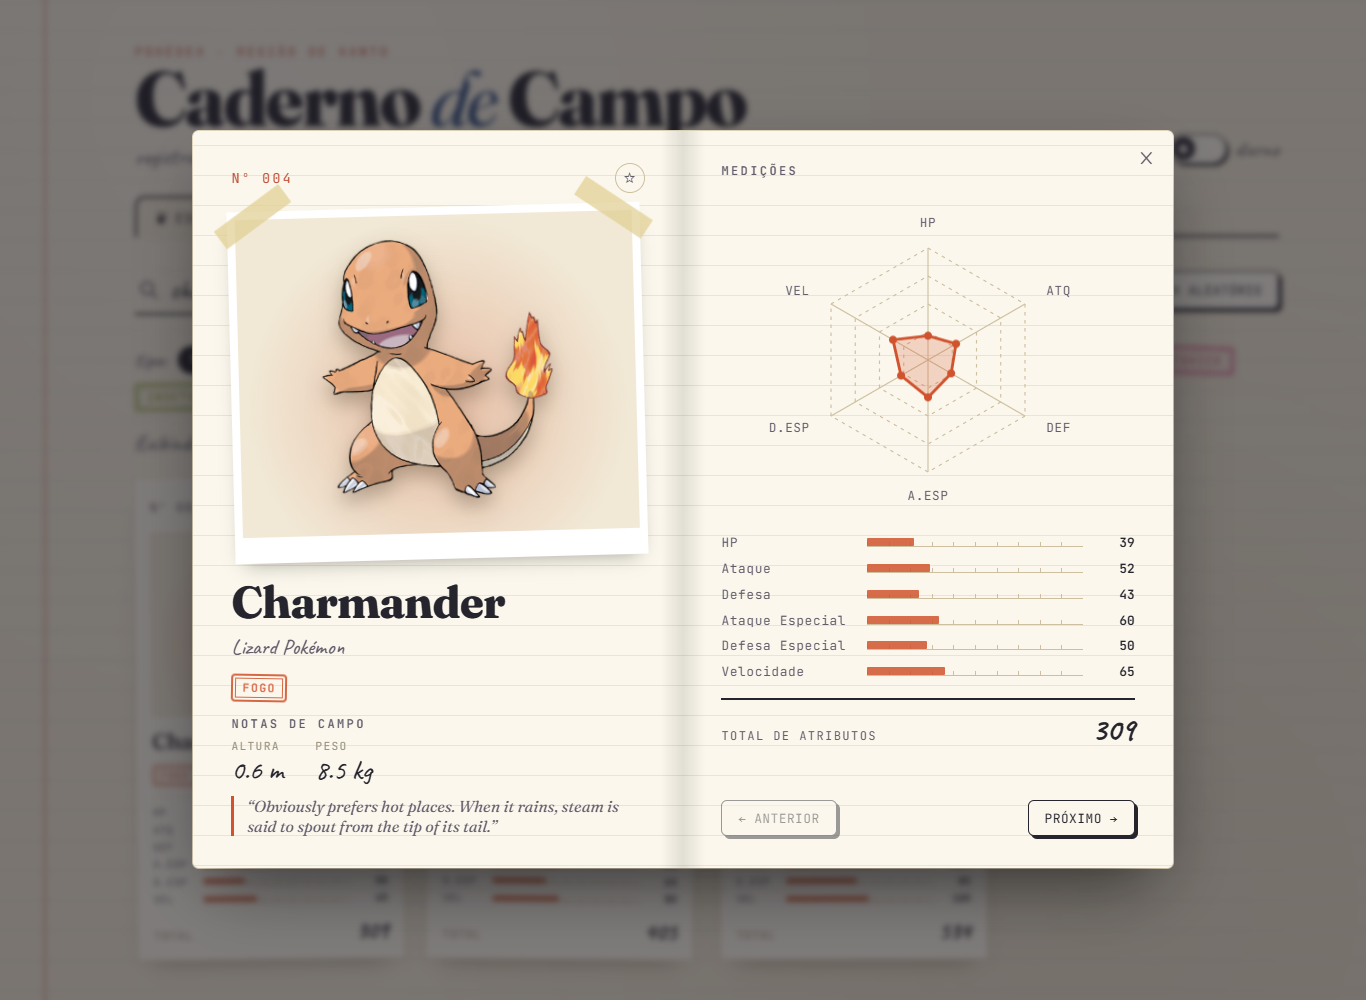
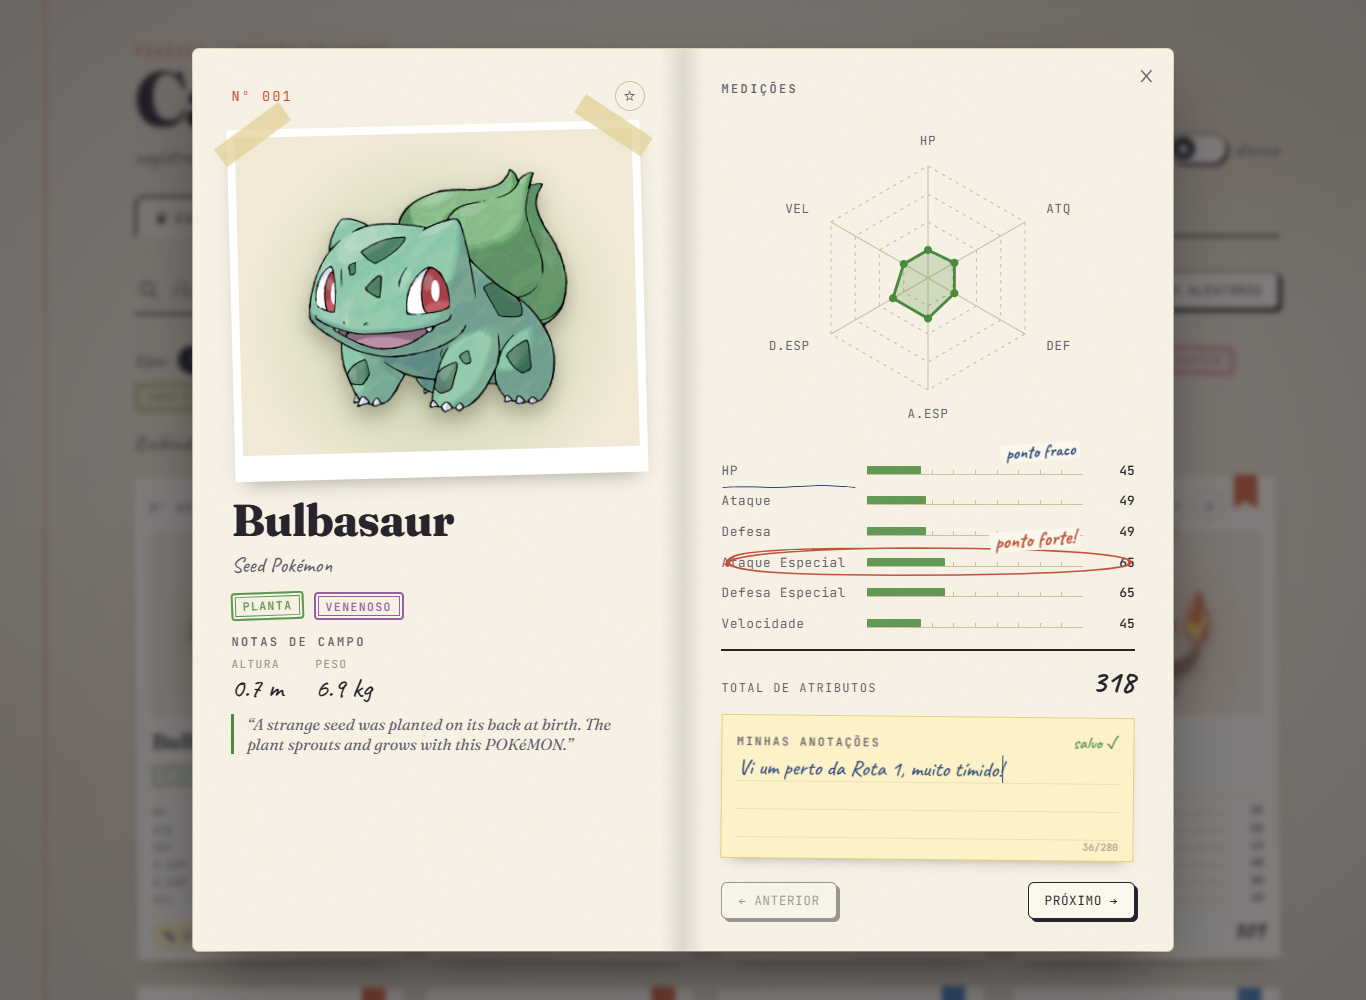
docs: documenta mapa, anotações e interações do caderno no README

diff --git a/README.md b/README.md
@@ -30,9 +30,18 @@ Em vez da clássica Pokédex vermelha, a interface foi pensada como o **caderno 
 - 🌙 **Tema claro/escuro** salvo no navegador.
 - 🌐 **API externa (PokéAPI)** para complementar os detalhes com altura, peso, categoria e descrição.
 
+### Interações do caderno de campo
+- 📖 **Página virando de verdade**: ao navegar com “anterior/próximo” (ou pelas setas do teclado), a folha gira em 3D pela lombada, mostrando na frente a página atual e no verso a seguinte.
+- 🗺 **Mapa de Kanto desenhado à mão**: contorno com traço tremido, rotas que se desenham sozinhas, montanhas, floresta e rosa dos ventos. Cada treinador é um alfinete com foto na sua cidade; clicar nele abre a ficha ao lado.
+- ✍ **Minhas anotações**: um bloco de notas em cada Pokémon, salvo automaticamente no navegador. A nota também aparece como etiqueta na ficha da listagem.
+- 🖍 **Marcações à mão animadas**: no detalhe, o maior atributo é circulado (“ponto forte!”) e o menor é sublinhado (“ponto fraco”), como se fosse feito a caneta.
+- ✏ **Cursor de lápis**: o cursor vira um lápis e cada clique deixa um rabisco rápido no papel.
+
 <div align="center">
   <img src="docs/screenshots/detalhes.png" alt="Detalhes do Pokémon" width="49%" />
   <img src="docs/screenshots/comparacao.png" alt="Comparação" width="49%" />
+  <img src="docs/screenshots/pagina-virando.png" alt="Página virando" width="49%" />
+  <img src="docs/screenshots/mapa.png" alt="Mapa de Kanto" width="49%" />
   <img src="docs/screenshots/treinadores.png" alt="Treinadores" width="49%" />
   <img src="docs/screenshots/mobile.png" alt="Versão mobile" width="20%" />
 </div>
@@ -102,7 +111,12 @@ pokedex/
 │   │   ├── SortSelect.jsx     # ordenação
 │   │   ├── PokemonList.jsx    # grade de fichas (map)
 │   │   ├── PokemonCard.jsx    # ficha de espécime
-│   │   ├── PokemonDetails.jsx # modal de detalhes
+│   │   ├── PokemonDetails.jsx # modal de detalhes e folha virando
+│   │   ├── JournalPages.jsx   # páginas esquerda e direita do caderno
+│   │   ├── NotePad.jsx        # minhas anotações
+│   │   ├── Scribble.jsx       # marcações à mão animadas
+│   │   ├── KantoMap.jsx       # mapa de Kanto com os treinadores
+│   │   ├── PencilCursor.jsx   # rabiscos do cursor de lápis
 │   │   ├── StatBar.jsx        # barra de atributo (régua)
 │   │   ├── StatRadar.jsx      # gráfico radar em SVG
 │   │   ├── TypeStamp.jsx      # carimbo de tipo
@@ -114,16 +128,19 @@ pokedex/
 │   │   └── EmptyState.jsx     # nenhum resultado
 │   ├── css/                   # um arquivo de estilo por área da interface
 │   ├── data/
-│   │   └── pokedex-data.json
+│   │   ├── pokedex-data.json
+│   │   └── kantoMap.js        # cidades, rotas e locais dos treinadores
 │   ├── hooks/
 │   │   ├── useLocalStorage.js # useState persistido
 │   │   ├── useFavorites.js
+│   │   ├── useNotes.js        # anotações pessoais
 │   │   ├── useTheme.js
 │   │   └── usePokemonExtra.js # busca na PokéAPI com useEffect
 │   ├── utils/
 │   │   ├── filters.js         # pesquisa, filtro e ordenação
 │   │   ├── stats.js           # atributos, total e formatação do número
 │   │   ├── trainerImage.js    # fotos dos treinadores (Pokémon Showdown)
+│   │   ├── trainers.js        # agrupamento da equipe de cada treinador
 │   │   ├── typeColors.js      # cores e nomes em português dos tipos
 │   │   └── pokemonImage.js    # URLs das imagens e fallback
 │   ├── App.jsx                # estado principal e composição da tela
